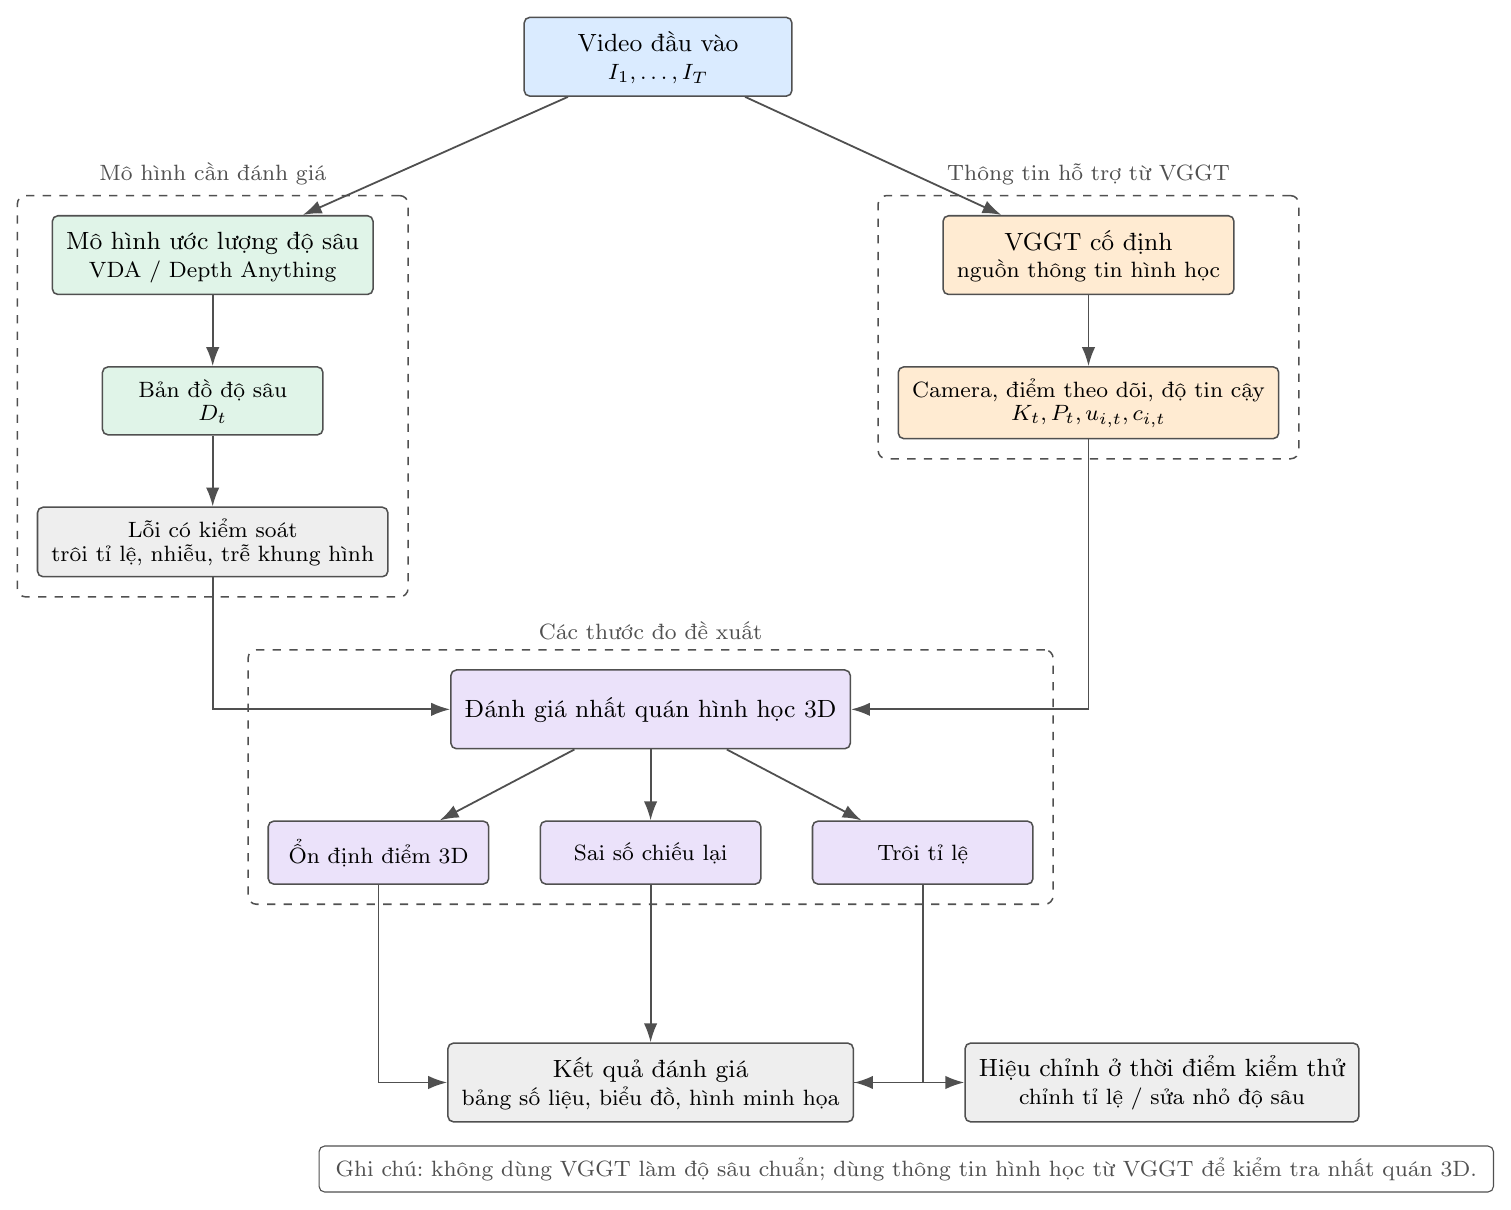
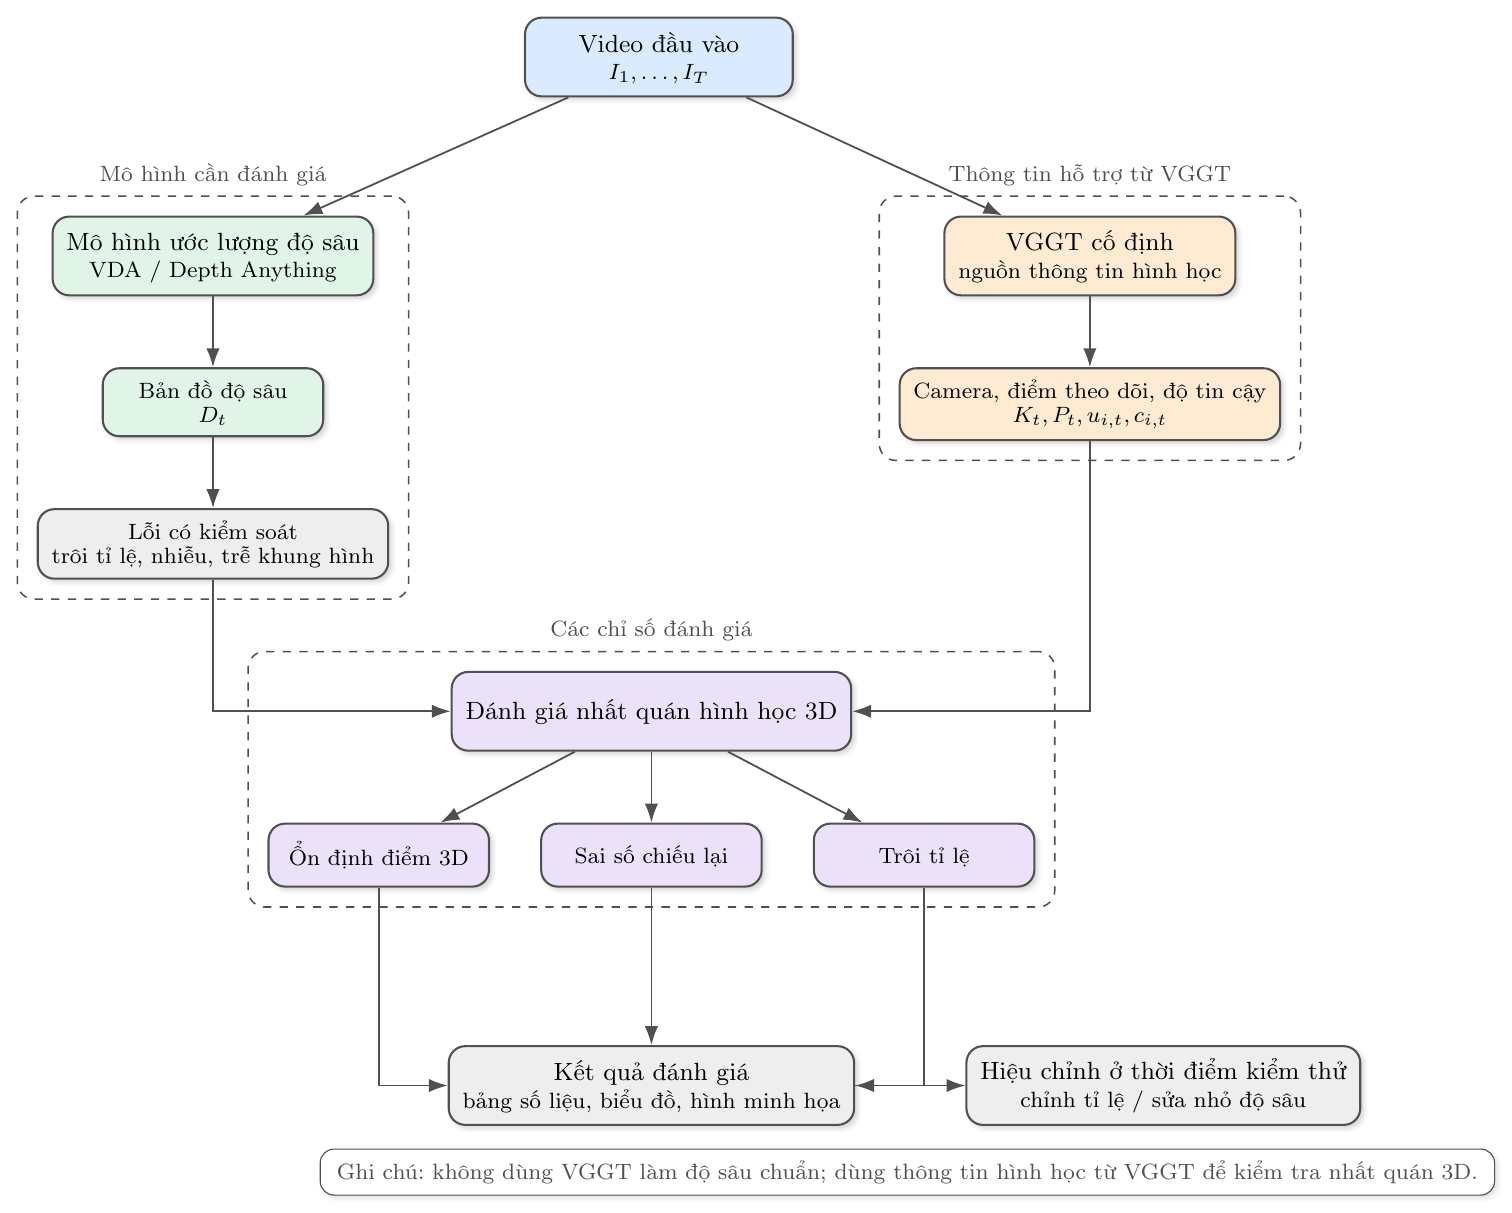
Refactor proposal document and related assets for clarity and consistency

diff --git a/proposal_pipeline_diagram.tex b/proposal_pipeline_diagram.tex
@@ -4,7 +4,7 @@
 \usepackage[T5]{fontenc}
 \usepackage[vietnamese]{babel}
 \usepackage{tikz}
-\usetikzlibrary{arrows.meta,positioning,fit,backgrounds,calc}
+\usetikzlibrary{arrows.meta,positioning,fit,backgrounds,calc,shadows,shadows.blur}
 
 \definecolor{inputblue}{RGB}{218,235,255}
 \definecolor{modelgreen}{RGB}{224,244,232}
@@ -16,15 +16,22 @@
 \tikzset{
   block/.style={
     rectangle,
-    rounded corners=2pt,
+    rounded corners=6pt,
     draw=linegray,
-    line width=0.55pt,
+    line width=0.75pt,
     align=center,
     minimum width=34mm,
     minimum height=10mm,
     inner xsep=5pt,
     inner ysep=4pt,
-    font=\small
+    font=\small,
+    blur shadow={
+      shadow blur steps=5,
+      shadow blur extra rounding=1.5pt,
+      shadow xshift=1.2pt,
+      shadow yshift=-1.2pt,
+      shadow opacity=18
+    }
   },
   smallblock/.style={
     block,
@@ -34,7 +41,7 @@
   },
   group/.style={
     rectangle,
-    rounded corners=3pt,
+    rounded corners=6pt,
     draw=linegray,
     line width=0.55pt,
     dashed,
@@ -110,10 +117,17 @@
 \node[
   labeltext,
   draw=linegray,
-  rounded corners=2pt,
+  rounded corners=5pt,
   fill=white,
   inner xsep=6pt,
   inner ysep=4pt,
+  blur shadow={
+    shadow blur steps=4,
+    shadow blur extra rounding=1.2pt,
+    shadow xshift=1pt,
+    shadow yshift=-1pt,
+    shadow opacity=14
+  },
   below=8mm of $(report)!0.5!(tta)$
 ] (note)
   {Ghi chú: không dùng VGGT làm độ sâu chuẩn; dùng thông tin hình học từ VGGT để kiểm tra nhất quán 3D.};
@@ -122,8 +136,9 @@
 \begin{pgfonlayer}{background}
   \node[group, fit=(depthmodel)(depth)(errors), label={[labeltext]above:Mô hình cần đánh giá}] {};
   \node[group, fit=(vggt)(geometry), label={[labeltext]above:Thông tin hỗ trợ từ VGGT}] {};
-  \node[group, fit=(metrics)(m1)(m2)(m3), label={[labeltext]above:Các thước đo đề xuất}] {};
+  \node[group, fit=(metrics)(m1)(m2)(m3), label={[labeltext]above:Các chỉ số đánh giá}] {};
 \end{pgfonlayer}
 
 \end{tikzpicture}
 \end{document}
+

diff --git a/Proposal.md b/Proposal.md
@@ -32,7 +32,7 @@ VGGT là một mô hình thị giác 3D có khả năng ước lượng nhiều 
 
 *Hình 2. Kiến trúc tổng quát của VGGT. Mô hình nhận nhiều ảnh đầu vào và dự đoán đồng thời thông tin camera, bản đồ độ sâu, bản đồ điểm 3D và điểm theo dõi. Đây là lý do đề tài dùng VGGT như nguồn thông tin hình học hỗ trợ, thay vì dùng VGGT như dữ liệu đúng tuyệt đối. Nguồn: trang dự án VGGT.*
 
-Đề tài được xây dựng ở mức đề cương nghiên cứu. Trọng tâm là thiết kế cách đánh giá trên các bộ dữ liệu có sẵn, cách tạo lỗi có kiểm soát để kiểm chứng thước đo, và cách hiệu chỉnh nhẹ kết quả ở thời điểm kiểm thử. Đề tài không đặt mục tiêu tạo một bộ dữ liệu chuẩn mới.
+Đề tài được xây dựng ở mức đề cương nghiên cứu. Trọng tâm là thiết kế cách đánh giá trên các bộ dữ liệu có sẵn, cách tạo lỗi có kiểm soát để kiểm chứng các chỉ số đánh giá và cách hiệu chỉnh nhẹ kết quả ở thời điểm kiểm thử. Đề tài không đặt mục tiêu tạo một bộ dữ liệu chuẩn mới.
 
 ## 3. Đầu vào và đầu ra của đề tài
 
@@ -50,7 +50,7 @@ VGGT là một mô hình thị giác 3D có khả năng ước lượng nhiều 
 
 Đầu ra dự kiến gồm:
 
-- Một nhóm thước đo để đánh giá tính nhất quán hình học 3D của video độ sâu.
+- Một nhóm chỉ số để đánh giá tính nhất quán hình học 3D của video độ sâu.
 - Bảng so sánh giữa bản đồ độ sâu ban đầu và các bản đồ độ sâu đã được tạo lỗi có kiểm soát.
 - Biểu đồ thể hiện sai số tăng hay giảm theo mức độ lỗi.
 - Hình minh họa trực quan, ví dụ vẽ điểm theo dõi thật và điểm được chiếu lại lên ảnh.
@@ -63,19 +63,19 @@ Mục tiêu tổng quát của đề tài là xây dựng một quy trình đán
 Các mục tiêu cụ thể gồm:
 
 1. Nghiên cứu cách dùng thông tin hình học từ VGGT để hỗ trợ đánh giá độ sâu video.
-2. Đề xuất các thước đo dựa trên điểm theo dõi, vị trí camera và sai số chiếu lại lên ảnh.
+2. Đề xuất các chỉ số đánh giá dựa trên điểm theo dõi, vị trí camera và sai số chiếu lại lên ảnh.
 3. Xây dựng cách tạo lỗi có kiểm soát trên bản đồ độ sâu, ví dụ làm trôi tỉ lệ, tạo nhiễu theo thời gian, làm trễ khung hình hoặc làm méo cục bộ.
-4. Kiểm tra xem thước đo đề xuất có phân biệt được độ sâu ban đầu và độ sâu đã bị tạo lỗi hay không.
-5. Đánh giá sơ bộ mối liên hệ giữa thước đo đề xuất và các sai số truyền thống trên bộ dữ liệu có thông tin thật.
-6. Nghiên cứu khả năng dùng các thước đo hình học làm tín hiệu để hiệu chỉnh kết quả độ sâu ở thời điểm kiểm thử mà không cần huấn luyện lại toàn bộ mô hình.
+4. Kiểm tra xem chỉ số đánh giá đề xuất có phân biệt được độ sâu ban đầu và độ sâu đã bị tạo lỗi hay không.
+5. Đánh giá sơ bộ mối liên hệ giữa chỉ số đánh giá đề xuất và các sai số truyền thống trên bộ dữ liệu có thông tin thật.
+6. Nghiên cứu khả năng dùng các chỉ số đánh giá hình học làm tín hiệu để hiệu chỉnh kết quả độ sâu ở thời điểm kiểm thử mà không cần huấn luyện lại toàn bộ mô hình.
 
 ## 5. Câu hỏi nghiên cứu
 
 Đề tài tập trung trả lời ba câu hỏi:
 
-**Câu hỏi 1:** Các thước đo dựa trên thông tin hình học từ VGGT có phát hiện được lỗi không nhất quán 3D trong video độ sâu hay không?
+**Câu hỏi 1:** Các chỉ số đánh giá dựa trên thông tin hình học từ VGGT có phát hiện được lỗi không nhất quán 3D trong video độ sâu hay không?
 
-**Câu hỏi 2:** Khi mức độ lỗi được tạo ra tăng dần, giá trị sai số của thước đo đề xuất có tăng tương ứng hay không?
+**Câu hỏi 2:** Khi mức độ lỗi được tạo ra tăng dần, giá trị sai số của chỉ số đánh giá đề xuất có tăng tương ứng hay không?
 
 **Câu hỏi 3:** Cách đánh giá hình học 3D có phát hiện được những lỗi mà cách đo độ mượt theo thời gian chưa phát hiện được hay không?
 
@@ -91,9 +91,15 @@ Sơ đồ trên thể hiện vai trò khác nhau của hai nhánh xử lý. Mô 
 
 ### 6.2. Khảo sát tài liệu và công cụ liên quan
 
-Các công trình liên quan về ước lượng độ sâu, ước lượng độ sâu từ video, hình học 3D từ ảnh và các bộ dữ liệu RGB-D sẽ được khảo sát. Trọng tâm gồm VGGT, Video Depth Anything, Depth Anything V2, KITTI, Sintel, TUM RGB-D và ScanNet.
+Các công trình liên quan sẽ được khảo sát theo ba nhóm chính.
 
-Kết quả của bước này là xác định mô hình nào được dùng để tạo bản đồ độ sâu, VGGT sẽ cung cấp những thông tin hình học nào, và bộ dữ liệu nào phù hợp cho thử nghiệm ban đầu.
+Nhóm thứ nhất là các mô hình ước lượng độ sâu, gồm Depth Anything, Depth Anything V2 và Video Depth Anything. Depth Anything và Depth Anything V2 là các mô hình mạnh cho ước lượng độ sâu từ ảnh đơn, có thể được dùng như đường cơ sở khi xử lý từng khung hình độc lập. Video Depth Anything phù hợp hơn với bối cảnh của đề tài vì mô hình này hướng trực tiếp đến độ sâu video ổn định theo thời gian. Các mô hình này sẽ được xem là nguồn tạo bản đồ độ sâu cần đánh giá.
+
+Nhóm thứ hai là các mô hình và phương pháp hình học 3D từ ảnh hoặc video, gồm VGGT và MegaSaM. VGGT đặc biệt quan trọng trong đề tài vì có thể cung cấp nhiều thông tin hình học cùng lúc, như camera, bản đồ điểm 3D, bản đồ độ sâu và điểm theo dõi. MegaSaM là một hướng liên quan về ước lượng cấu trúc 3D và chuyển động camera từ video thực tế, giúp đặt đề tài vào bối cảnh rộng hơn của bài toán dựng hình học 3D từ video. Nhóm công trình này giúp xác định cách dùng thông tin hình học để đánh giá độ sâu video.
+
+Nhóm thứ ba là các bộ dữ liệu đánh giá, gồm KITTI, Sintel, TUM RGB-D và ScanNet. KITTI phù hợp với cảnh ngoài trời và bài toán xe tự hành; Sintel có dữ liệu tổng hợp với chuyển động rõ, phù hợp để kiểm tra lỗi hình học có kiểm soát. TUM RGB-D và ScanNet phù hợp với cảnh trong nhà, có thông tin RGB-D và camera pose hữu ích cho đánh giá. Các bộ dữ liệu này được dùng để chọn các đoạn video ngắn phục vụ thử nghiệm, không nhằm tạo một bộ dữ liệu chuẩn mới.
+
+Kết quả của bước khảo sát là xác định mô hình nào được dùng để tạo bản đồ độ sâu, VGGT sẽ cung cấp những thông tin hình học nào, và bộ dữ liệu nào phù hợp cho thử nghiệm ban đầu.
 
 ### 6.3. Chuẩn bị dữ liệu thử nghiệm
 
@@ -101,19 +107,19 @@ Một số đoạn video ngắn sẽ được chọn từ các bộ dữ liệu 
 
 Dữ liệu trung gian dự kiến được lưu theo một cấu trúc thống nhất:
 
-```text
-frames: ảnh màu theo thời gian
-depth: bản đồ độ sâu của mô hình cần đánh giá
-K: tham số camera
-pose: vị trí và hướng camera theo thời gian
-tracks_xy: tọa độ các điểm được theo dõi
-tracks_valid: điểm có tồn tại ở khung hình tương ứng hay không
-tracks_conf: độ tin cậy của điểm nếu có
-```
+| Thành phần | Ý nghĩa |
+| :--- | :--- |
+| `frames` | Ảnh màu theo thời gian |
+| `depth` | Bản đồ độ sâu của mô hình cần đánh giá |
+| `K` | Tham số camera |
+| `pose` | Vị trí và hướng camera theo thời gian |
+| `tracks_xy` | Tọa độ các điểm được theo dõi |
+| `tracks_valid` | Điểm có tồn tại ở khung hình tương ứng hay không |
+| `tracks_conf` | Độ tin cậy của điểm nếu có |
 
 ### 6.4. Tạo lỗi có kiểm soát
 
-Từ bản đồ độ sâu ban đầu, đề tài sẽ tạo thêm các phiên bản bị lỗi để kiểm tra độ nhạy của thước đo. Các loại lỗi dự kiến gồm:
+Từ bản đồ độ sâu ban đầu, đề tài sẽ tạo thêm các phiên bản bị lỗi để kiểm tra độ nhạy của chỉ số đánh giá. Các loại lỗi dự kiến gồm:
 
 - **Trôi tỉ lệ:** nhân độ sâu ở mỗi khung hình với một hệ số thay đổi theo thời gian.
 - **Nhiễu theo thời gian:** thêm nhiễu làm độ sâu thay đổi bất thường giữa các khung hình.
@@ -127,39 +133,39 @@ Vì mức độ lỗi được kiểm soát, thứ tự mong muốn là:
 độ sâu ban đầu < lỗi nhẹ < lỗi nặng
 ```
 
-Một thước đo tốt cần phản ánh được thứ tự này.
+Một chỉ số đánh giá tốt cần phản ánh được thứ tự này.
 
-### 6.5. Thước đo 1: độ ổn định 3D của điểm theo dõi
+### 6.5. Chỉ số 1: độ ổn định 3D của điểm theo dõi
 
 Với một điểm được theo dõi qua nhiều khung hình, tọa độ ảnh và độ sâu tại mỗi khung hình sẽ được dùng để đưa điểm đó vào không gian 3D. Sau đó, các điểm 3D này được quy về cùng một hệ tọa độ bằng thông tin camera.
 
 Nếu bản đồ độ sâu nhất quán, cùng một điểm vật lý trong cảnh cần có vị trí 3D gần nhau qua nhiều khung hình. Nếu các vị trí này phân tán quá xa, điều đó cho thấy độ sâu có thể chưa ổn định về mặt hình học.
 
-### 6.6. Thước đo 2: sai số chiếu lại lên ảnh
+### 6.6. Chỉ số 2: sai số chiếu lại lên ảnh
 
 Một điểm 3D được tạo từ khung hình này sẽ được chiếu sang khung hình khác bằng thông tin camera. Sau đó, vị trí chiếu lại được so sánh với vị trí điểm theo dõi thật trên ảnh.
 
-Nếu sai số giữa hai vị trí nhỏ, kết quả độ sâu có tính nhất quán tốt hơn. Nếu sai số lớn, bản đồ độ sâu hoặc thông tin hình học có thể đang gặp vấn đề. Thước đo này dễ kiểm tra bằng hình minh họa vì có thể vẽ trực tiếp hai điểm lên ảnh.
+Nếu sai số giữa hai vị trí nhỏ, kết quả độ sâu có tính nhất quán tốt hơn. Nếu sai số lớn, bản đồ độ sâu hoặc thông tin hình học có thể đang gặp vấn đề. Chỉ số đánh giá này dễ kiểm tra bằng hình minh họa vì có thể vẽ trực tiếp hai điểm lên ảnh.
 
-### 6.7. Thước đo 3: độ trôi tỉ lệ theo thời gian
+### 6.7. Chỉ số 3: độ trôi tỉ lệ theo thời gian
 
 Các mô hình ước lượng độ sâu từ một camera thường khó xác định đúng tỉ lệ tuyệt đối. Vì vậy, đề tài cần tách riêng lỗi trôi tỉ lệ khỏi các lỗi hình học khác.
 
-Thước đo này đánh giá xem tỉ lệ độ sâu có thay đổi bất thường giữa các khung hình hay không. Nhờ đó, có thể phân biệt trường hợp bản đồ độ sâu có hình dạng tương đối đúng nhưng tỉ lệ bị trôi, với trường hợp bản đồ độ sâu bị sai cục bộ.
+Chỉ số này đánh giá xem tỉ lệ độ sâu có thay đổi bất thường giữa các khung hình hay không. Nhờ đó, có thể phân biệt trường hợp bản đồ độ sâu có hình dạng tương đối đúng nhưng tỉ lệ bị trôi, với trường hợp bản đồ độ sâu bị sai cục bộ.
 
-### 6.8. Kiểm chứng thước đo
+### 6.8. Kiểm chứng các chỉ số đánh giá
 
-Các thước đo sẽ được kiểm chứng theo ba hướng:
+Các chỉ số đánh giá sẽ được kiểm chứng theo ba hướng:
 
 1. **Kiểm tra xếp hạng:** độ sâu ban đầu cần có sai số thấp hơn độ sâu đã bị tạo lỗi.
 2. **Kiểm tra tăng dần:** sai số cần tăng khi mức độ lỗi tăng.
-3. **Kiểm tra tương quan:** nếu có dữ liệu thật, thước đo đề xuất sẽ được so sánh với các sai số truyền thống như AbsRel, RMSE hoặc sai số chiếu lại.
+3. **Kiểm tra tương quan:** nếu có dữ liệu thật, chỉ số đánh giá đề xuất sẽ được so sánh với các sai số truyền thống như AbsRel, RMSE hoặc sai số chiếu lại.
 
 Ngoài các bảng số liệu, hình minh họa sẽ được dùng để giải thích kết quả và phát hiện các trường hợp thất bại.
 
 ### 6.9. Hiệu chỉnh ở thời điểm kiểm thử
 
-Sau khi các thước đo hình học được kiểm chứng, đề tài sẽ xem xét dùng chúng để hiệu chỉnh kết quả độ sâu ở thời điểm kiểm thử. Mục tiêu của bước này không phải là huấn luyện lại mô hình từ đầu, mà là điều chỉnh nhẹ kết quả của từng video để làm cho độ sâu nhất quán hơn về mặt hình học.
+Sau khi các chỉ số đánh giá hình học được kiểm chứng, đề tài sẽ xem xét dùng chúng để hiệu chỉnh kết quả độ sâu ở thời điểm kiểm thử. Mục tiêu của bước này không phải là huấn luyện lại mô hình từ đầu, mà là điều chỉnh nhẹ kết quả của từng video để làm cho độ sâu nhất quán hơn về mặt hình học.
 
 Cách làm dự kiến đi từ đơn giản đến phức tạp:
 
@@ -167,44 +173,44 @@ Cách làm dự kiến đi từ đơn giản đến phức tạp:
 2. **Hiệu chỉnh nhỏ trên bản đồ độ sâu:** thêm một phần sửa nhỏ vào bản đồ độ sâu, đồng thời giữ cho kết quả không thay đổi quá mạnh so với dự đoán ban đầu.
 3. **Hiệu chỉnh một phần nhỏ của mô hình nếu có điều kiện:** chỉ điều chỉnh một số tham số nhỏ, thay vì cập nhật toàn bộ mô hình.
 
-Bước này sẽ được xem như hướng mở rộng sau khi phần đánh giá đã cho tín hiệu đáng tin cậy. Nếu thước đo chưa ổn định hoặc phụ thuộc quá nhiều vào VGGT, phần hiệu chỉnh sẽ không được xem là kết quả chính.
+Bước này sẽ được xem như hướng mở rộng sau khi phần đánh giá đã cho tín hiệu đáng tin cậy. Nếu chỉ số đánh giá chưa ổn định hoặc phụ thuộc quá nhiều vào VGGT, phần hiệu chỉnh sẽ không được xem là kết quả chính.
 
 ## 7. Kết quả dự kiến
 
 Kết quả dự kiến của đề tài gồm:
 
 1. Một quy trình đánh giá tính nhất quán hình học 3D của video độ sâu trên các bộ dữ liệu có sẵn.
-2. Ba nhóm thước đo: độ ổn định 3D của điểm theo dõi, sai số chiếu lại lên ảnh và độ trôi tỉ lệ theo thời gian.
-3. Một quy trình tạo lỗi có kiểm soát để đánh giá độ nhạy của thước đo.
-4. Một thử nghiệm ban đầu trên một số đoạn video ngắn nhằm chứng minh thước đo có khả năng phân biệt kết quả tốt và kết quả bị lỗi.
-5. Một thử nghiệm hiệu chỉnh nhẹ ở thời điểm kiểm thử nếu các thước đo ban đầu đủ ổn định.
+2. Ba nhóm chỉ số đánh giá: độ ổn định 3D của điểm theo dõi, sai số chiếu lại lên ảnh và độ trôi tỉ lệ theo thời gian.
+3. Một quy trình tạo lỗi có kiểm soát để đánh giá độ nhạy của chỉ số đánh giá.
+4. Một thử nghiệm ban đầu trên một số đoạn video ngắn nhằm chứng minh chỉ số đánh giá có khả năng phân biệt kết quả tốt và kết quả bị lỗi.
+5. Một thử nghiệm hiệu chỉnh nhẹ ở thời điểm kiểm thử nếu các chỉ số đánh giá ban đầu đủ ổn định.
 6. Bảng kết quả, biểu đồ và hình minh họa thể hiện sai số theo mức độ lỗi.
 
 Nếu thời gian cho phép, một sổ tay thử nghiệm nhỏ sẽ được xây dựng để minh họa quy trình. Tuy nhiên, sổ tay này không phải là yêu cầu bắt buộc nếu đề tài chỉ dừng ở mức đề cương.
 
 ## 8. Phạm vi và giới hạn
 
-Đề tài tập trung vào xây dựng quy trình đánh giá và thước đo chẩn đoán trên các bộ dữ liệu có sẵn, không tạo một bộ dữ liệu chuẩn mới. Phần hiệu chỉnh ở thời điểm kiểm thử chỉ được xem là hướng mở rộng nhẹ, chưa tập trung vào việc huấn luyện một mô hình ước lượng độ sâu mới.
+Đề tài tập trung vào xây dựng quy trình đánh giá và chỉ số đánh giá chẩn đoán trên các bộ dữ liệu có sẵn, không tạo một bộ dữ liệu chuẩn mới. Phần hiệu chỉnh ở thời điểm kiểm thử chỉ được xem là hướng mở rộng nhẹ, chưa tập trung vào việc huấn luyện một mô hình ước lượng độ sâu mới.
 
 VGGT được dùng như nguồn thông tin hình học hỗ trợ, không được xem là chuẩn đúng tuyệt đối. Vì vậy, kết quả cần được hiểu là đánh giá chẩn đoán, không phải kết luận cuối cùng rằng mô hình này đúng và mô hình khác sai.
 
-Thử nghiệm ban đầu được giới hạn ở các đoạn video ngắn và số lượng bộ dữ liệu nhỏ để bảo đảm tính khả thi. Việc hiệu chỉnh kết quả ở thời điểm kiểm thử sẽ chỉ được thực hiện sau khi các thước đo đánh giá đã được kiểm chứng sơ bộ.
+Thử nghiệm ban đầu được giới hạn ở các đoạn video ngắn và số lượng bộ dữ liệu nhỏ để bảo đảm tính khả thi. Việc hiệu chỉnh kết quả ở thời điểm kiểm thử sẽ chỉ được thực hiện sau khi các chỉ số đánh giá đã được kiểm chứng sơ bộ.
 
 ## 9. Rủi ro và cách giảm thiểu
 
 | Rủi ro | Vấn đề | Cách giảm thiểu |
 | :--- | :--- | :--- |
-| VGGT không phải dữ liệu đúng tuyệt đối | Thước đo có thể chỉ phản ánh mức độ giống với VGGT | Dùng lỗi có kiểm soát, so sánh với dữ liệu thật nếu có và bổ sung hình minh họa |
+| VGGT không phải dữ liệu đúng tuyệt đối | Chỉ số đánh giá có thể chỉ phản ánh mức độ giống với VGGT | Dùng lỗi có kiểm soát, so sánh với dữ liệu thật nếu có và bổ sung hình minh họa |
 | Nhầm quy ước camera | Nhầm hướng biến đổi camera có thể làm sai số bị tính sai | Kiểm tra bằng cách vẽ điểm chiếu lại trên vài khung hình trước khi chạy hàng loạt |
 | Độ sâu thiếu tỉ lệ tuyệt đối | Độ sâu từ một camera thường không xác định được đúng đơn vị thật | Báo cáo riêng sai số sau khi căn chỉnh và độ trôi tỉ lệ |
 | Vật thể chuyển động | Vật thể tự chuyển động làm giả định cảnh tĩnh bị sai | Dùng độ tin cậy, loại bỏ điểm theo dõi không ổn định và dùng cách tính sai số ít nhạy với ngoại lệ |
-| Hiệu chỉnh làm kết quả xấu hơn | Nếu thước đo chưa đáng tin, việc hiệu chỉnh theo thước đo có thể gây sai lệch | Chỉ hiệu chỉnh nhẹ, so sánh với kết quả ban đầu và dừng ở mức thử nghiệm nếu tín hiệu chưa rõ |
+| Hiệu chỉnh làm kết quả xấu hơn | Nếu chỉ số đánh giá chưa đáng tin, việc hiệu chỉnh theo chỉ số đánh giá có thể gây sai lệch | Chỉ hiệu chỉnh nhẹ, so sánh với kết quả ban đầu và dừng ở mức thử nghiệm nếu tín hiệu chưa rõ |
 | Chi phí tính toán | Chạy nhiều mô hình trên video có thể tốn GPU | Bắt đầu bằng video ngắn, độ phân giải thấp và lưu kết quả trung gian |
 | Dữ liệu không thống nhất | Mỗi bộ dữ liệu có định dạng camera và độ sâu khác nhau | Chuẩn hóa dữ liệu về một cấu trúc trung gian thống nhất |
 
 ## 10. Kết luận
 
-Đề tài đề xuất một hướng nghiên cứu khả thi nhằm đánh giá và hiệu chỉnh nhẹ tính nhất quán hình học 3D của video độ sâu. Thay vì tạo một bộ dữ liệu chuẩn mới hoặc huấn luyện mô hình mới ngay từ đầu, đề tài tập trung vào cách dùng thông tin hình học do VGGT cung cấp để đánh giá kết quả trên các bộ dữ liệu có sẵn. Cách tiếp cận này phù hợp với giai đoạn nghiên cứu ban đầu vì có thể kiểm chứng bằng các lỗi được tạo có kiểm soát, đồng thời có thể mở rộng sang hiệu chỉnh ở thời điểm kiểm thử nếu các thước đo cho kết quả đáng tin cậy.
+Đề tài đề xuất một hướng nghiên cứu khả thi nhằm đánh giá và hiệu chỉnh nhẹ tính nhất quán hình học 3D của video độ sâu. Thay vì tạo một bộ dữ liệu chuẩn mới hoặc huấn luyện mô hình mới ngay từ đầu, đề tài tập trung vào cách dùng thông tin hình học do VGGT cung cấp để đánh giá kết quả trên các bộ dữ liệu có sẵn. Cách tiếp cận này phù hợp với giai đoạn nghiên cứu ban đầu vì có thể kiểm chứng bằng các lỗi được tạo có kiểm soát, đồng thời có thể mở rộng sang hiệu chỉnh ở thời điểm kiểm thử nếu các chỉ số đánh giá cho kết quả đáng tin cậy.
 
 ## 11. Tài liệu tham khảo
 